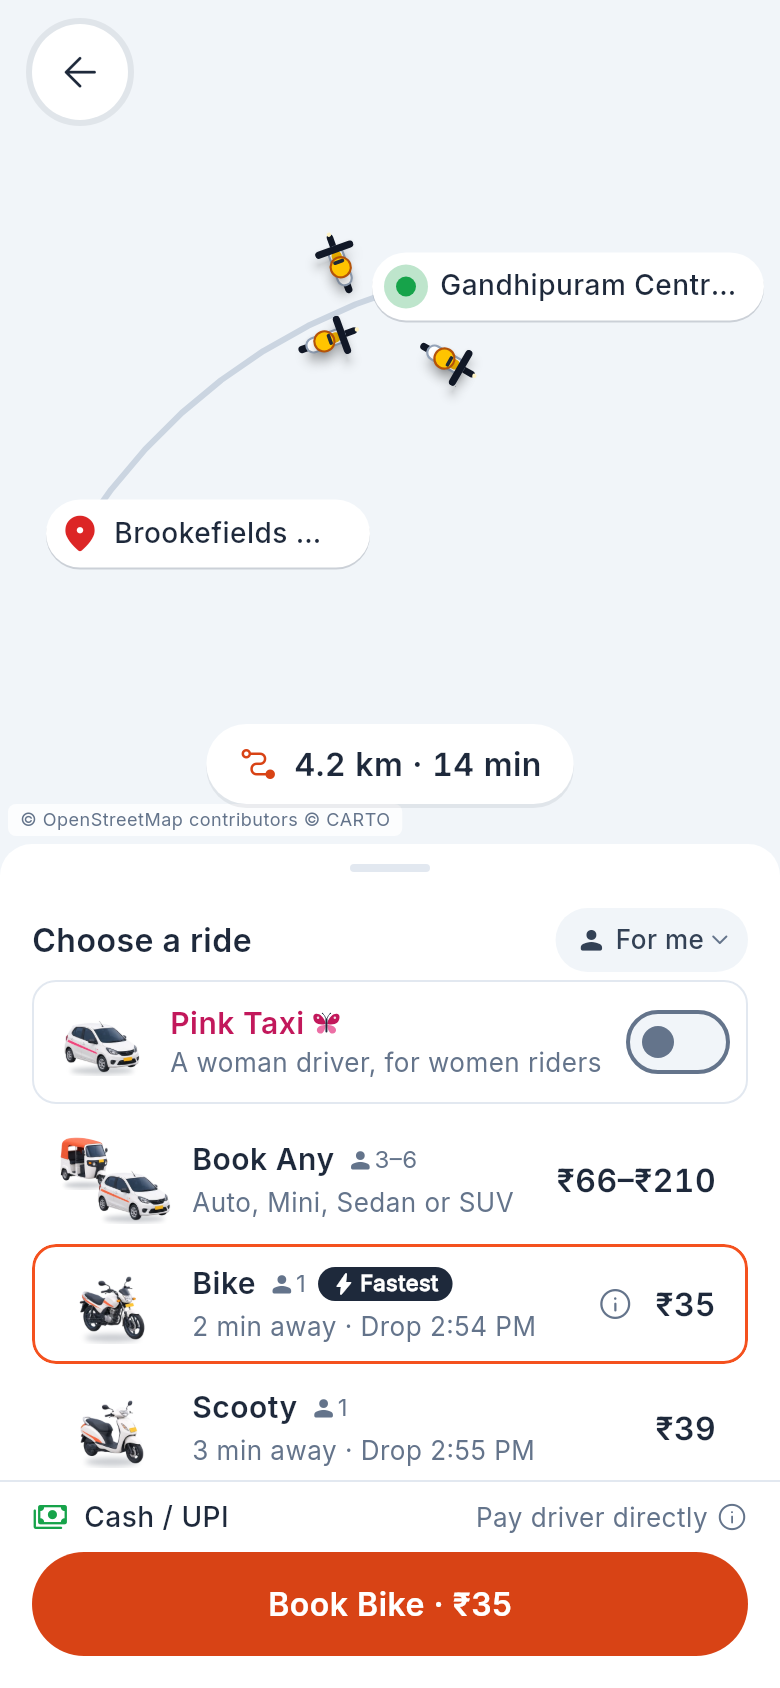
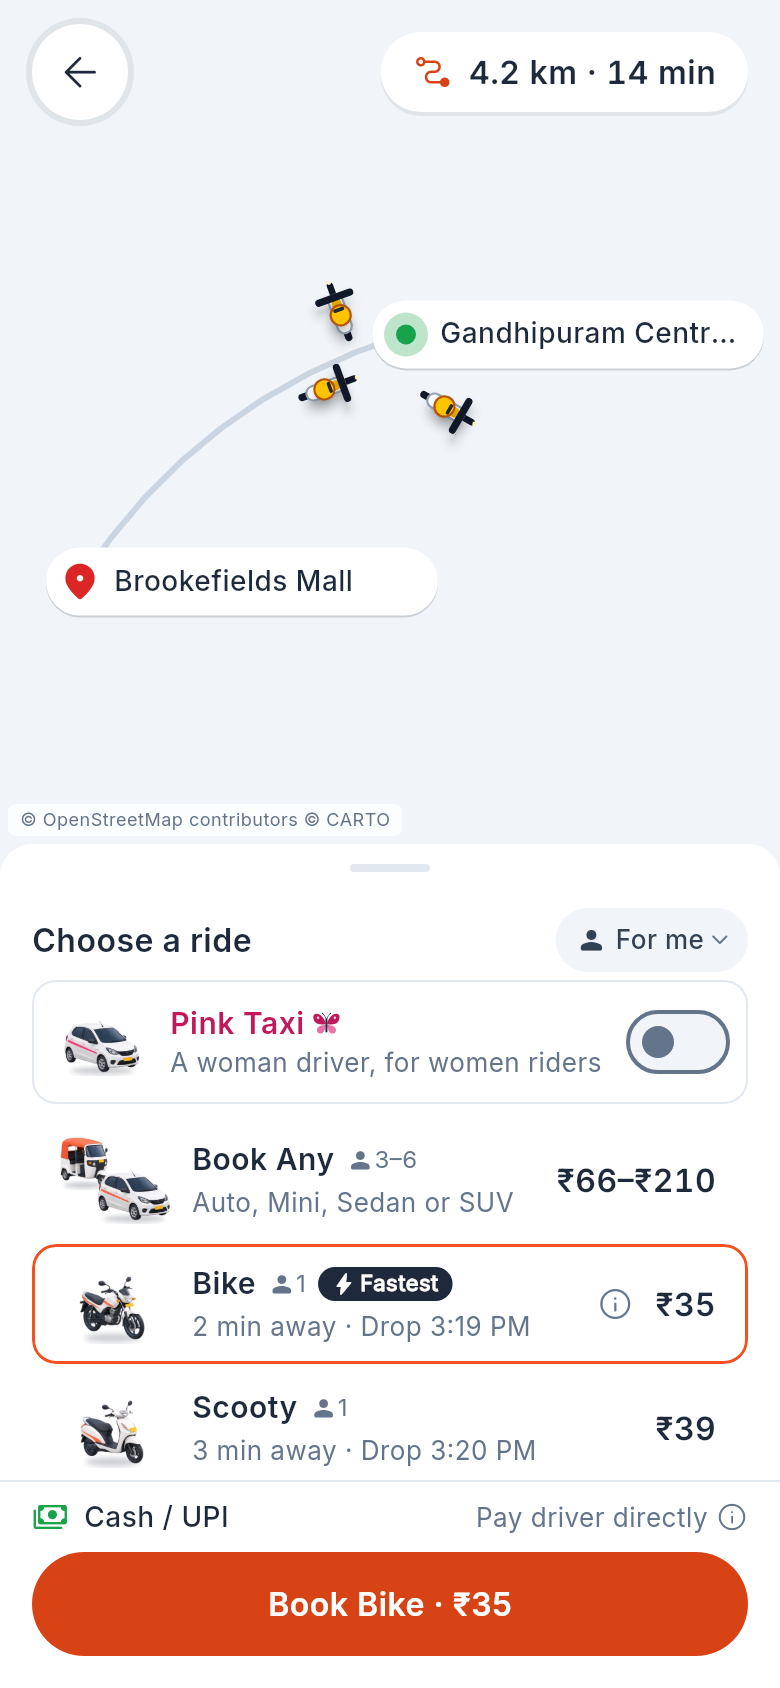
feat(passenger): distance chip top right on P-10
"8.2 km · 22 min" now sits top right beside the back button (like
PP-06) instead of riding on the sheet, so the route gets the space
above the sheet.

diff --git a/apps/passenger/lib/features/ride/p10_choose_vehicle_screen.dart b/apps/passenger/lib/features/ride/p10_choose_vehicle_screen.dart
@@ -34,9 +34,6 @@ class _P10ChooseVehicleScreenState extends ConsumerState<P10ChooseVehicleScreen>
   static const _half = 0.5;
   static const _full = 0.86;
 
-  /// Live sheet height, so the distance chip rides on top of it.
-  final ValueNotifier<double> _extent = ValueNotifier(_half);
-
   /// Sheet height the map's padding follows, updated once a drag settles (re-padding the platform map on every
   /// drag frame would stutter).
   final ValueNotifier<double> _settled = ValueNotifier(_half);
@@ -44,7 +41,6 @@ class _P10ChooseVehicleScreenState extends ConsumerState<P10ChooseVehicleScreen>
 
   @override
   void dispose() {
-    _extent.dispose();
     _settled.dispose();
     _settleTimer?.cancel();
     super.dispose();
@@ -138,9 +134,9 @@ class _P10ChooseVehicleScreenState extends ConsumerState<P10ChooseVehicleScreen>
                       // The route fills the map above the half-open sheet, like RedTaxi's. Not refitted into the strip
                       // left when the sheet is pulled up (it would zoom far out).
                       fitPoints: noPickup || open(settled) ? null : route,
-                      // Below the back button and above the distance chip. The Google map is padded by the sheet
+                      // Below the back button and the distance chip. The Google map is padded by the sheet
                       // ([TtMap.mapPadding]); flutter_map has no such padding, so the sheet is in the fit padding there.
-                      fitPadding: EdgeInsets.fromLTRB(40, safeTop + 76, 40, 88 + (TtMap.usesGoogle ? 0 : sheetPx)),
+                      fitPadding: EdgeInsets.fromLTRB(40, safeTop + 76, 40, 40 + (TtMap.usesGoogle ? 0 : sheetPx)),
                       mapPadding: sheetMapPadding(sheetPx),
                       attributionPadding: EdgeInsets.only(bottom: sheetPx),
                       // Like RedTaxi / Ola: the route keeps drawing itself, and both places are named on the map;
@@ -168,37 +164,32 @@ class _P10ChooseVehicleScreenState extends ConsumerState<P10ChooseVehicleScreen>
                   ),
                 ),
               ),
-              // The distance chip rides on top of the sheet and steps aside when the sheet is pulled up.
-              ValueListenableBuilder<double>(
-                valueListenable: _extent,
-                builder: (context, extent, chip) => open(extent)
-                    ? const SizedBox.shrink()
-                    : Positioned(left: 0, right: 0, top: c.maxHeight * (1 - extent) - 60, child: chip!),
-                child: Center(
-                  child: Container(
-                    padding: const EdgeInsets.symmetric(horizontal: TtSpacing.l, vertical: TtSpacing.s),
-                    decoration: const BoxDecoration(
-                      color: TtColors.surface,
-                      borderRadius: TtRadii.pillRadius,
-                      boxShadow: TtShadows.soft,
-                    ),
-                    child: Row(
-                      mainAxisSize: MainAxisSize.min,
-                      children: [
-                        const Icon(Symbols.conversion_path_rounded, size: 20, color: TtColors.coral600),
-                        const SizedBox(width: TtSpacing.s),
-                        Text(
-                          noPickup ? 'Choose your pickup' : (quotesReady ? state.estimate.label : 'Getting fares…'),
-                          style: TtTextStyles.tabular(t.bodySemibold),
-                        ),
-                      ],
-                    ),
+              // The distance and time, top right beside the back button (like PP-06).
+              Positioned(
+                top: safeTop + 16,
+                right: TtSpacing.l,
+                child: Container(
+                  padding: const EdgeInsets.symmetric(horizontal: TtSpacing.l, vertical: TtSpacing.s),
+                  decoration: const BoxDecoration(
+                    color: TtColors.surface,
+                    borderRadius: TtRadii.pillRadius,
+                    boxShadow: TtShadows.soft,
+                  ),
+                  child: Row(
+                    mainAxisSize: MainAxisSize.min,
+                    children: [
+                      const Icon(Symbols.conversion_path_rounded, size: 20, color: TtColors.coral600),
+                      const SizedBox(width: TtSpacing.s),
+                      Text(
+                        noPickup ? 'Choose your pickup' : (quotesReady ? state.estimate.label : 'Getting fares…'),
+                        style: TtTextStyles.tabular(t.bodySemibold),
+                      ),
+                    ],
                   ),
                 ),
               ),
               NotificationListener<DraggableScrollableNotification>(
                 onNotification: (n) {
-                  _extent.value = n.extent;
                   _settleTimer?.cancel();
                   _settleTimer = Timer(const Duration(milliseconds: 180), () {
                     if (mounted) _settled.value = (n.extent * 100).round() / 100;

diff --git a/docs/tech-docs/using.tech.md b/docs/tech-docs/using.tech.md
@@ -1121,7 +1121,7 @@ tier per city (City › Fares).
   tabular (`price`); no box of its own, only the selected row has a white fill and a 1.5 dp outline (`accent`: coral,
   pink for Pink Taxi), and its ⓘ (`onInfo`) opens P-11 fare details. P-10 (13 Oct 2026, like RedTaxi / Ola): the
   map fills the screen and the sheet (`DraggableScrollableSheet`) opens at half height with the route fitted in the
-  map above it, under the back button and over the distance chip; drag it up (0.86) to see every ride, where the map
+  map above it, under the back button and the distance chip (top right, like PP-06); drag it up (0.86) to see every ride, where the map
   only keeps the Google logo above the sheet instead of re-fitting into the strip left; "Cash / UPI" and Book stay
   pinned under the list (was a fixed sheet taking 70 % of the screen with the route in a thin strip). The
   header is one 40 dp row, "Choose a ride" with the "For me ▾" chip; women riders get the **Pink Taxi** strip under
